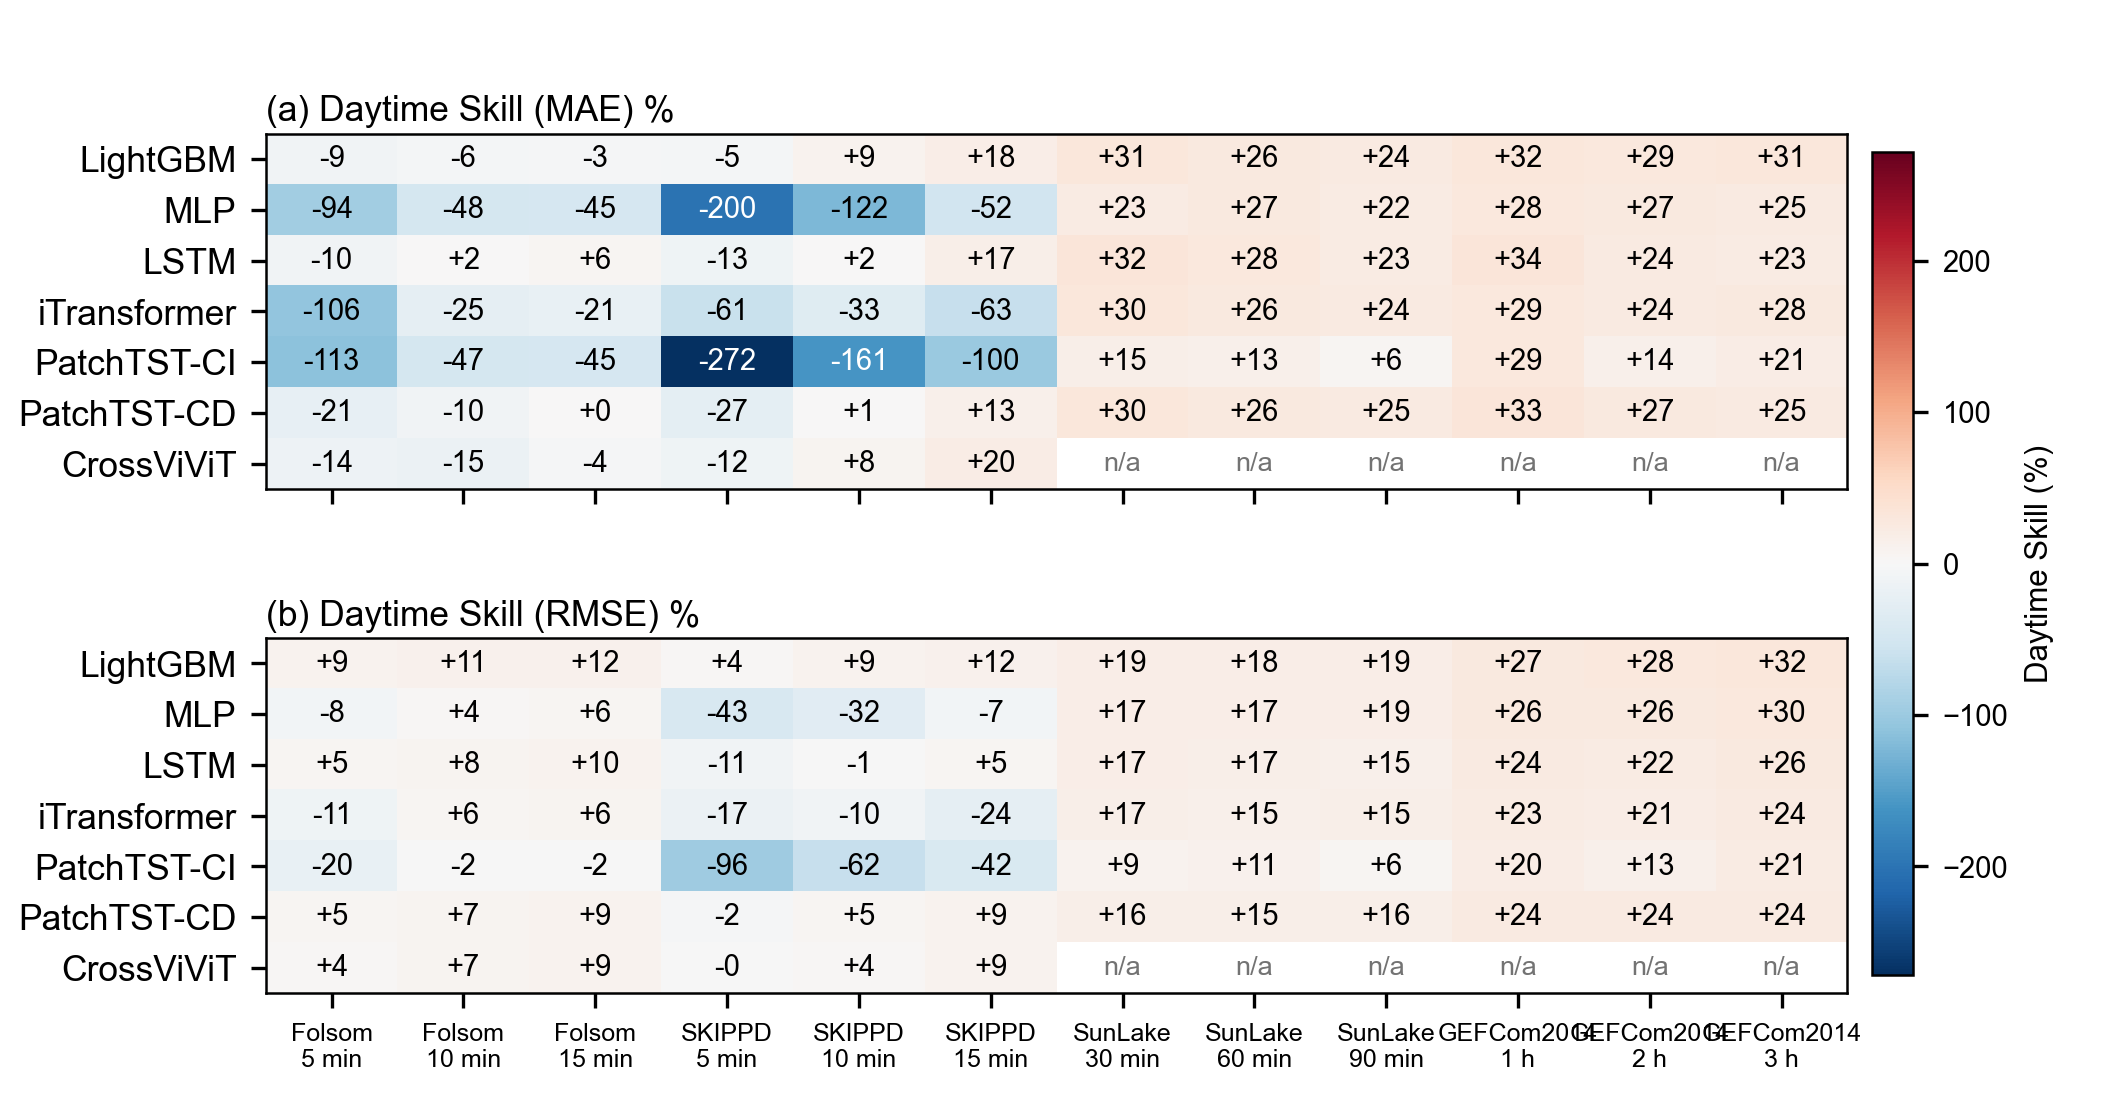
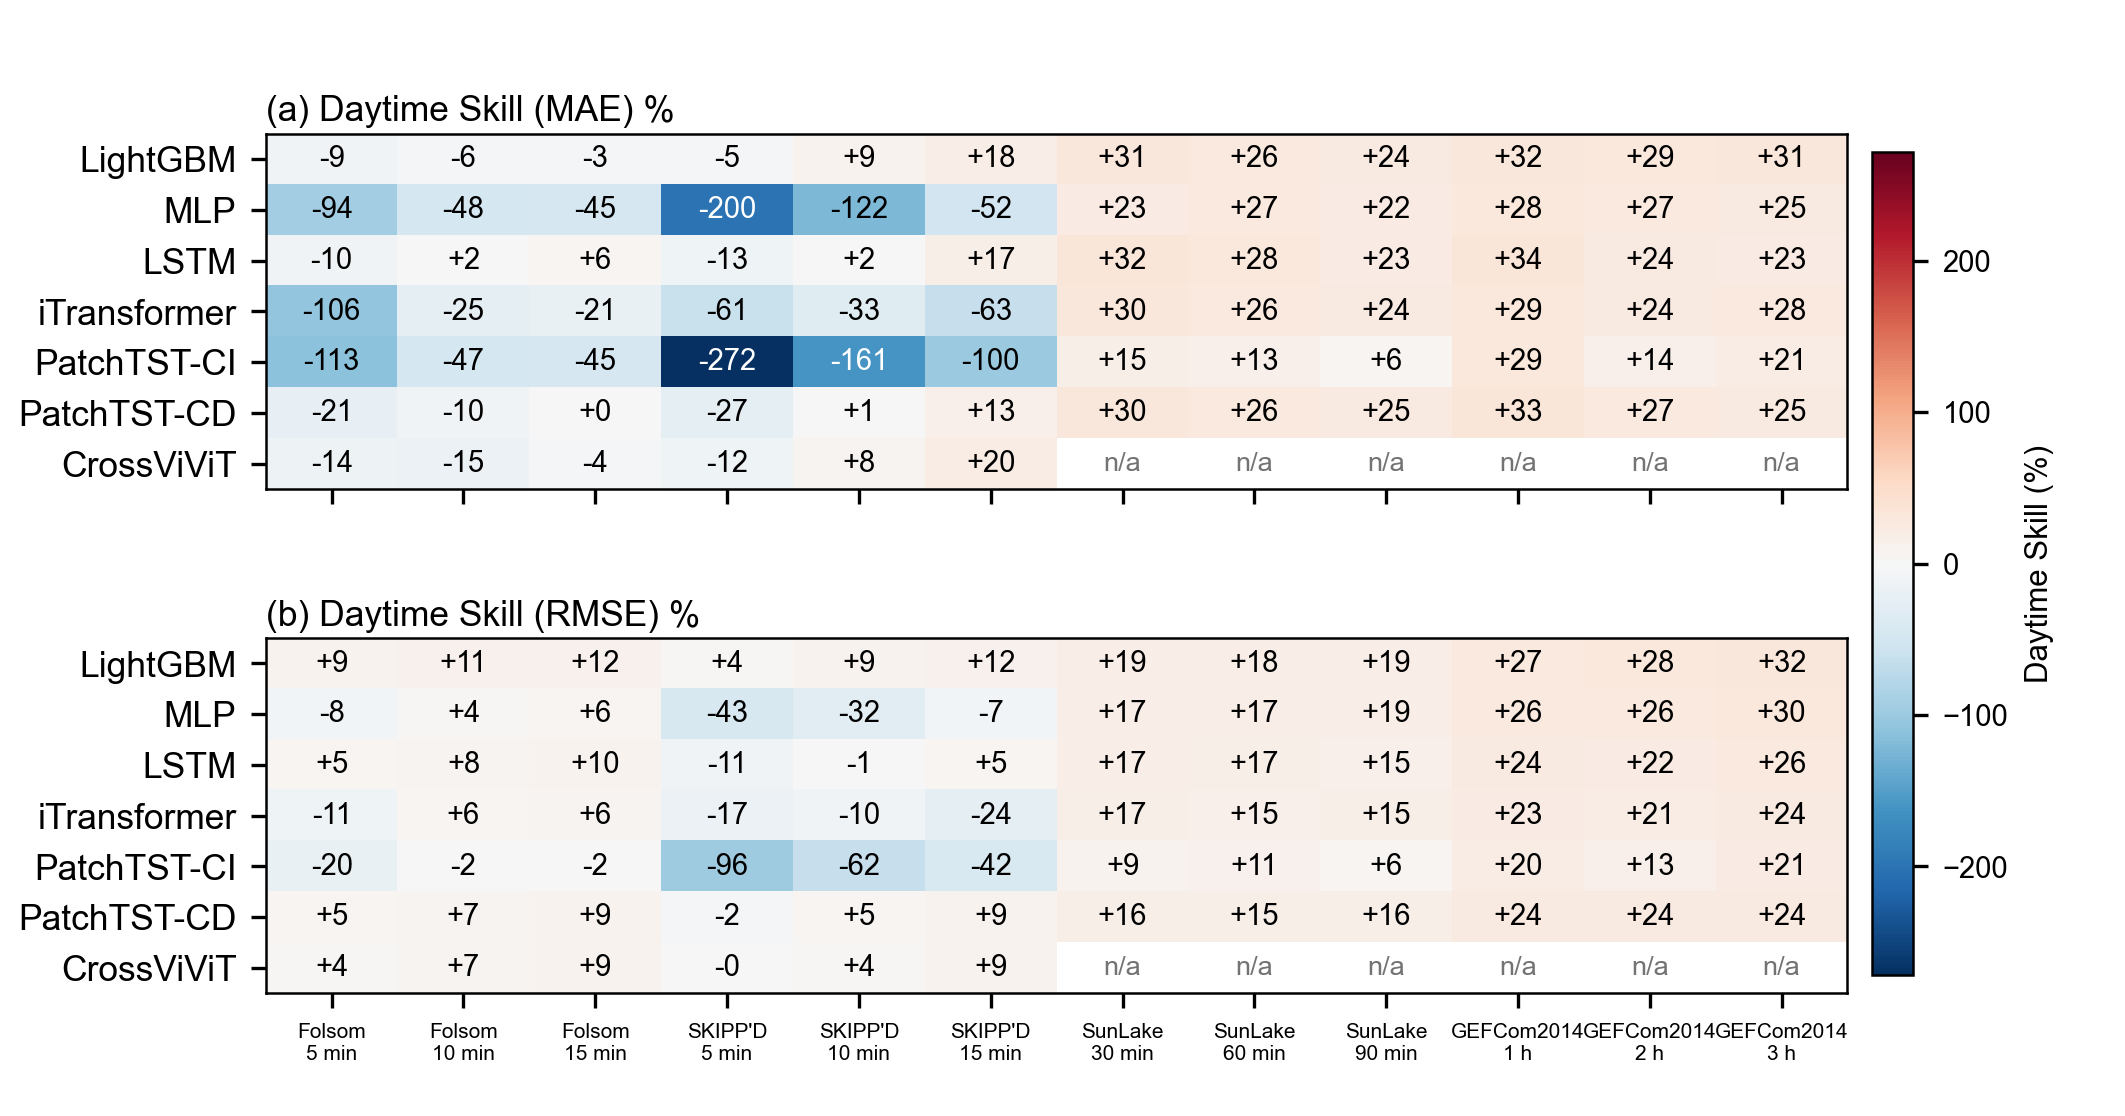
viz(essd-fig2): dataset label SKIPP'D; x tick labels 5 pt (no overlap at 12 two-line ticks)

Changed region(s): [[0.1242, 0.914, 0.8696, 0.9749]]

diff --git a/scripts/plot_essd_figures.py b/scripts/plot_essd_figures.py
@@ -66,7 +66,7 @@ DS_COLORS = {
     "sunlake": "#CC79A7",      # reddish purple
 }
 DS_LABELS = {"gefcom2014": "GEFCom2014", "folsom": "Folsom",
-             "skippd": "SKIPPD", "sunlake": "SunLake"}
+             "skippd": "SKIPP'D", "sunlake": "SunLake"}
 DS_ORDER = ["gefcom2014", "folsom", "skippd", "sunlake"]
 
 #: Academic LaTeX column notation (no snake_case on axes).
@@ -251,7 +251,7 @@ def fig2() -> None:
                             color="black" if abs(v) < vmax * 0.55 else "white")
         ax.set_yticks(range(len(models)), models)
     axes[1].set_xticks(range(len(labels)), labels,
-                       fontsize=TEXT_SIZE_PT - 2.5)   # two-line ticks: keep small
+                       fontsize=TEXT_SIZE_PT - 3.5)   # 5 pt: 12 two-line ticks across 180 mm
     axes[1].set_xlabel("")   # bottom caption row removed per user request
     # Shared diverging colorbar on the right edge (both panels share the scale).
     cbar = fig.colorbar(shared_im, ax=list(axes), fraction=0.025, pad=0.015)
